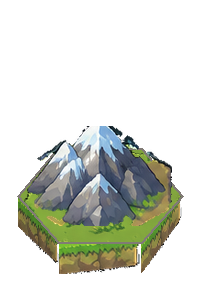
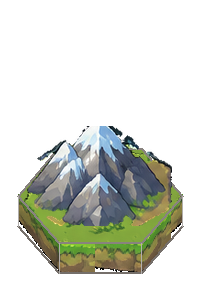
Vẽ lại ô ruộng liền mạch và làm hông ô liền một dải
- Ruộng: thửa lúa phủ kín mặt ô, chia bằng lối cỏ, có luống và viền theo bảng màu ảnh gốc
- Hông đất dựng thành một dải liên tục dưới mép trước, không còn gãy ở góc
- Viền tối mép dưới và cạnh đứng cho khối ô rõ hơn
- Hàng rào bỏ phần nấm dính kèm

Claude-Session: https://claude.ai/code/session_01NNxgZzkCUdo89QeDQ3JDBB

Changed region(s): [[0.09, 0.66, 0.93, 0.93]]

diff --git a/tools/slice_assets.py b/tools/slice_assets.py
@@ -61,7 +61,7 @@ PROP_BOXES = {
     "lantern": (824, 847, 907, 993),
     "signpost": (645, 868, 809, 991),
     "log": (525, 838, 640, 910),
-    "fence": (456, 917, 639, 988),
+    "fence": (456, 917, 572, 988),
     "hay": (366, 914, 450, 991),
     "bush_flower": (21, 906, 137, 992),
     "bush_flower2": (143, 905, 265, 993),
@@ -336,20 +336,109 @@ def warp_strip(canvas: Image.Image, strip: Image.Image, P0, P1, depth, shade=1.0
     canvas.alpha_composite(out)
 
 
+def side_band(strip: Image.Image) -> Image.Image:
+    """Dải đất liền mạch dưới mép trước của mặt lục giác (3 mặt hông dưới-trái, dưới, dưới-phải).
+    Texture lấy theo cột từ dải đất của ảnh gốc nên không bị gãy ở góc."""
+    import math
+    X0, Y0 = OUT_CENTER
+    R, D = OUT_R, OUT_D
+    h = R * math.sqrt(3) / 2 * OUT_SQ
+    st = np.array(strip.convert("RGBA")).astype(float)
+    # bỏ hai đầu dải (hay dính viền trong suốt)
+    w0 = st.shape[1]
+    st = st[:, int(w0 * 0.12):int(w0 * 0.88)]
+    sh, sw = st.shape[0], st.shape[1]
+    out = np.zeros((TILE_H, TILE_W, 4), dtype=float)
+    x_min, x_max = int(math.floor(X0 - R)), int(math.ceil(X0 + R))
+    for x in range(x_min, x_max + 1):
+        if x < X0 - R / 2:
+            ytop = Y0 + (x - (X0 - R)) / (R / 2) * h
+            shade = 0.78
+        elif x <= X0 + R / 2:
+            ytop = Y0 + h
+            shade = 1.0
+        else:
+            ytop = Y0 + ((X0 + R) - x) / (R / 2) * h
+            shade = 0.9
+        sx = int((x - x_min) * 0.85) % sw
+        for y in range(int(ytop) - 2, int(ytop + D) + 1):
+            if not (0 <= y < TILE_H and 0 <= x < TILE_W):
+                continue
+            t = (y - ytop) / D
+            if t > 1.0:
+                continue
+            sy = min(sh - 1, max(0, int(t * (sh - 1))))
+            px = st[sy, sx]
+            out[y, x, :3] = px[:3] * shade
+            out[y, x, 3] = 255 if px[3] > 20 else 0
+    # mép dưới tối để khối rõ hơn
+    img = Image.fromarray(np.clip(out, 0, 255).astype(np.uint8), "RGBA")
+    return img
+
+
 def flat_tile(face: Image.Image, strip: Image.Image) -> Image.Image:
     X0, Y0 = OUT_CENTER
     hexp = flat_hex(X0, Y0, OUT_R, OUT_SQ)
     canvas = Image.new("RGBA", (TILE_W, TILE_H), (0, 0, 0, 0))
-    # 3 mặt hông nhìn thấy: phải->dưới-phải, dưới-phải->dưới-trái, dưới-trái->trái
-    warp_strip(canvas, strip, hexp[0], hexp[1], OUT_D, 0.92)
-    warp_strip(canvas, strip, hexp[1], hexp[2], OUT_D, 1.0)
-    warp_strip(canvas, strip, hexp[2], hexp[3], OUT_D, 0.8)
+    canvas.alpha_composite(side_band(strip))
     canvas.alpha_composite(face)
-    # viền tối mảnh quanh mặt trên cho giống nét vẽ gốc
     from PIL import ImageDraw
     d = ImageDraw.Draw(canvas)
-    d.line(hexp + [hexp[0]], fill=(40, 30, 22, 150), width=2)
+    # viền tối mảnh quanh mặt trên và mép dưới của hông
+    d.line(hexp + [hexp[0]], fill=(40, 30, 22, 140), width=2)
+    bottom = [hexp[0], hexp[1], hexp[2], hexp[3]]
+    d.line([(x, y + OUT_D) for x, y in bottom], fill=(35, 25, 18, 160), width=2)
+    for v in (hexp[0], hexp[1], hexp[2], hexp[3]):
+        d.line([v, (v[0], v[1] + OUT_D)], fill=(35, 25, 18, 90), width=1)
     return canvas
+
+
+def farm_face(base_face: Image.Image) -> Image.Image:
+    """Mặt ruộng vẽ lại liền mạch: thửa lúa phủ gần kín mặt ô, chia 3 thửa bằng lối cỏ, có luống và viền
+    (bảng màu lấy từ ô ruộng gốc). Vẽ ở góc nhìn thẳng rồi ép theo độ dẹt của ô."""
+    import math
+    rng = np.random.default_rng(7)
+    X0, Y0 = OUT_CENTER
+    up = 4
+    R = OUT_R * up
+    Htd = R * math.sqrt(3)
+    W, H = int(2 * R) + 8, int(Htd) + 8
+    cx, cy = W / 2, H / 2
+    yy, xx = np.mgrid[0:H, 0:W]
+    u, v = xx - cx, yy - cy
+    # lục giác đỉnh phẳng thu nhỏ 84%
+    r_in = R * 0.84
+    inside = (np.abs(v) <= r_in * math.sqrt(3) / 2) & (np.abs(u) * math.sqrt(3) + np.abs(v) <= r_in * math.sqrt(3))
+    path_w = 0.045 * Htd
+    paths = (np.abs(v - 0.02 * Htd) < path_w) | ((np.abs(u - 0.12 * R) < path_w) & (v < 0.02 * Htd))
+    wheat = inside & ~paths
+    gold = np.array([232, 170, 52], float)
+    rowcol = [np.array([249, 191, 53], float), np.array([206, 142, 40], float)]
+    img = np.zeros((H, W, 4), float)
+    band = ((v / (6 * up)).astype(int) % 2).astype(int)
+    img[:, :, :3] = gold
+    for k in (0, 1):
+        sel = band == k
+        img[sel, :3] = rowcol[k] * 0.6 + gold * 0.4
+    noise = rng.normal(0, 10, (H, W))
+    img[:, :, :3] += noise[:, :, None]
+    # bông lúa sáng lấm tấm
+    for _ in range(900):
+        px, py = int(rng.uniform(0, W)), int(rng.uniform(0, H))
+        img[max(0, py - 1):py + 2, max(0, px - 3):px + 4, :3] = (253, 216, 96)
+    # viền thửa
+    er = ndimage.binary_erosion(wheat, iterations=3 * up)
+    border = wheat & ~er
+    img[border, :3] = (150, 96, 30)
+    img[:, :, 3] = np.where(wheat, 255, 0)
+    td = Image.fromarray(np.clip(img, 0, 255).astype(np.uint8), "RGBA")
+    td = td.resize((int(W / up), max(1, int(H / up * OUT_SQ))), Image.LANCZOS)
+    face = base_face.copy()
+    face.alpha_composite(td, (int(round(X0 - td.width / 2)), int(round(Y0 - td.height / 2))))
+    mask = poly_mask((TILE_W, TILE_H), flat_hex(X0, Y0, OUT_R, OUT_SQ))
+    al = np.minimum(np.array(face.getchannel("A")), np.array(mask))
+    face.putalpha(Image.fromarray(al))
+    return face
 
 
 def texture_face(patch: Image.Image, rim: Image.Image = None) -> Image.Image:
@@ -426,9 +515,7 @@ def main():
     olive_face = recolor(rotated_face(raw["grass_tall"]), (1.0, 0.92, 0.62), sat=0.7)
     olive = flat_tile(olive_face, strips["grass_tall"])
     # ruộng: lát texture lúa lên nền cỏ
-    patch = raw["field"].convert("RGBA").crop((96, 32, 150, 60))
-    field_face = texture_face(patch, rotated_face(raw["grass_tall"]))
-    tiles["field"] = flat_tile(field_face, strips["grass_tall"])
+    tiles["field"] = flat_tile(farm_face(rotated_face(raw["grass_tall"])), strips["grass_tall"])
 
     X0, Y0 = OUT_CENTER
     A = (X0, Y0)
@@ -439,7 +526,7 @@ def main():
             paste_prop(img, props[name], (A[0] + dx, A[1] + dy), h)
         return img
 
-    tiles["field"] = deco(tiles["field"], [("fence", 30, 40, 26), ("hay", -46, 10, 24)])
+    tiles["field"] = deco(tiles["field"], [("hay", 50, -18, 20), ("fence", -30, 46, 20), ("fence", 30, 46, 20)])
     tiles["forest"] = deco(tiles["grass_tall"], [("pine", -44, -8, 66), ("pine2", -4, -26, 72), ("pine", 38, -10, 68),
                                                  ("pine2", -24, 18, 70), ("pine", 22, 22, 72)])
     tiles["forest_small"] = deco(tiles["grass_flowers"], [("tree_round", -34, -6, 60), ("pine", 10, -20, 64),
